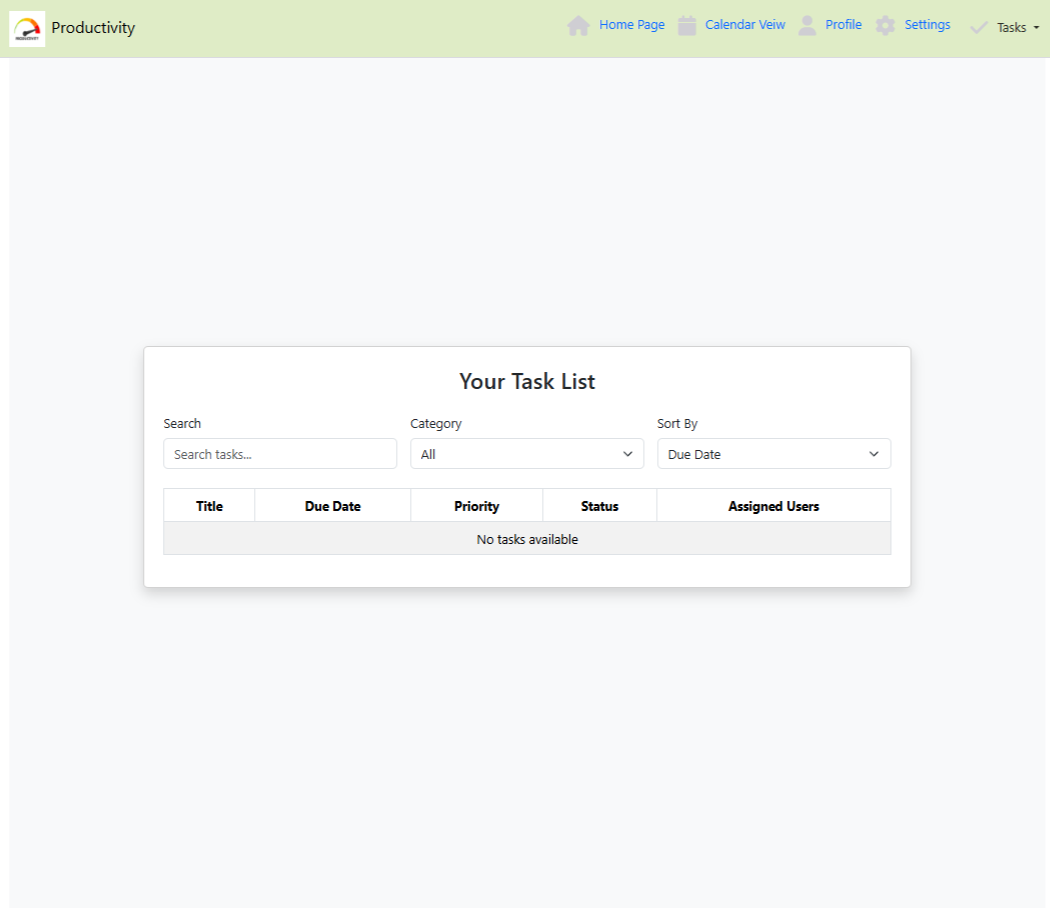
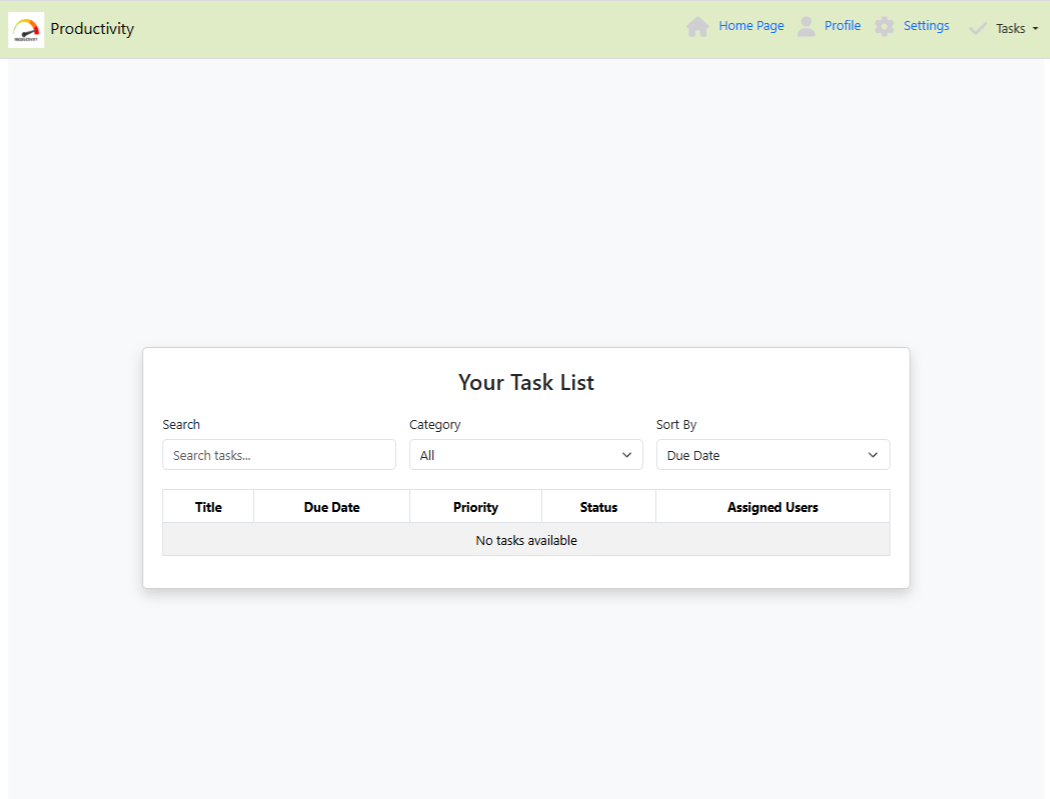
Update the README.md file

diff --git a/src/App.js b/src/App.js
@@ -14,7 +14,6 @@ import EditTask from "./components/EditTask"; // Import the EditTask component
 import TaskList from "./components/TaskList"; // Import the TaskList component
 import HomePage from "./components/HomePage";
 import "react-datepicker/dist/react-datepicker.css";
-import CalendarVeiw from "./components/CalendarView";
 
 function App() {
   return (
@@ -25,7 +24,6 @@ function App() {
           <Route path="/" element={<HomePage />} />
           <Route path="/login" element={<Login />} />
           <Route path="/register" element={<Register />} />
-          <Route path="/calendarView" element={<CalendarVeiw />} />
           <Route path="/profile" element={<Profile />} />
           <Route path="/settings" element={<Settings />} />
           <Route path="/createtask" element={<CreateTask />} />

diff --git a/src/components/NavBar.js b/src/components/NavBar.js
@@ -47,14 +47,6 @@ function NavBar() {
               </NavLink>
               <NavLink
                 exact="true"
-                to="/CalendarView"
-                className={styles.NavLink}
-                onClick={handleNavClick}
-              >
-                <i class="fa-solid fa-calendar"></i> Calendar Veiw
-              </NavLink>
-              <NavLink
-                exact="true"
                 to="/profile"
                 className={styles.NavLink}
                 onClick={handleNavClick}
